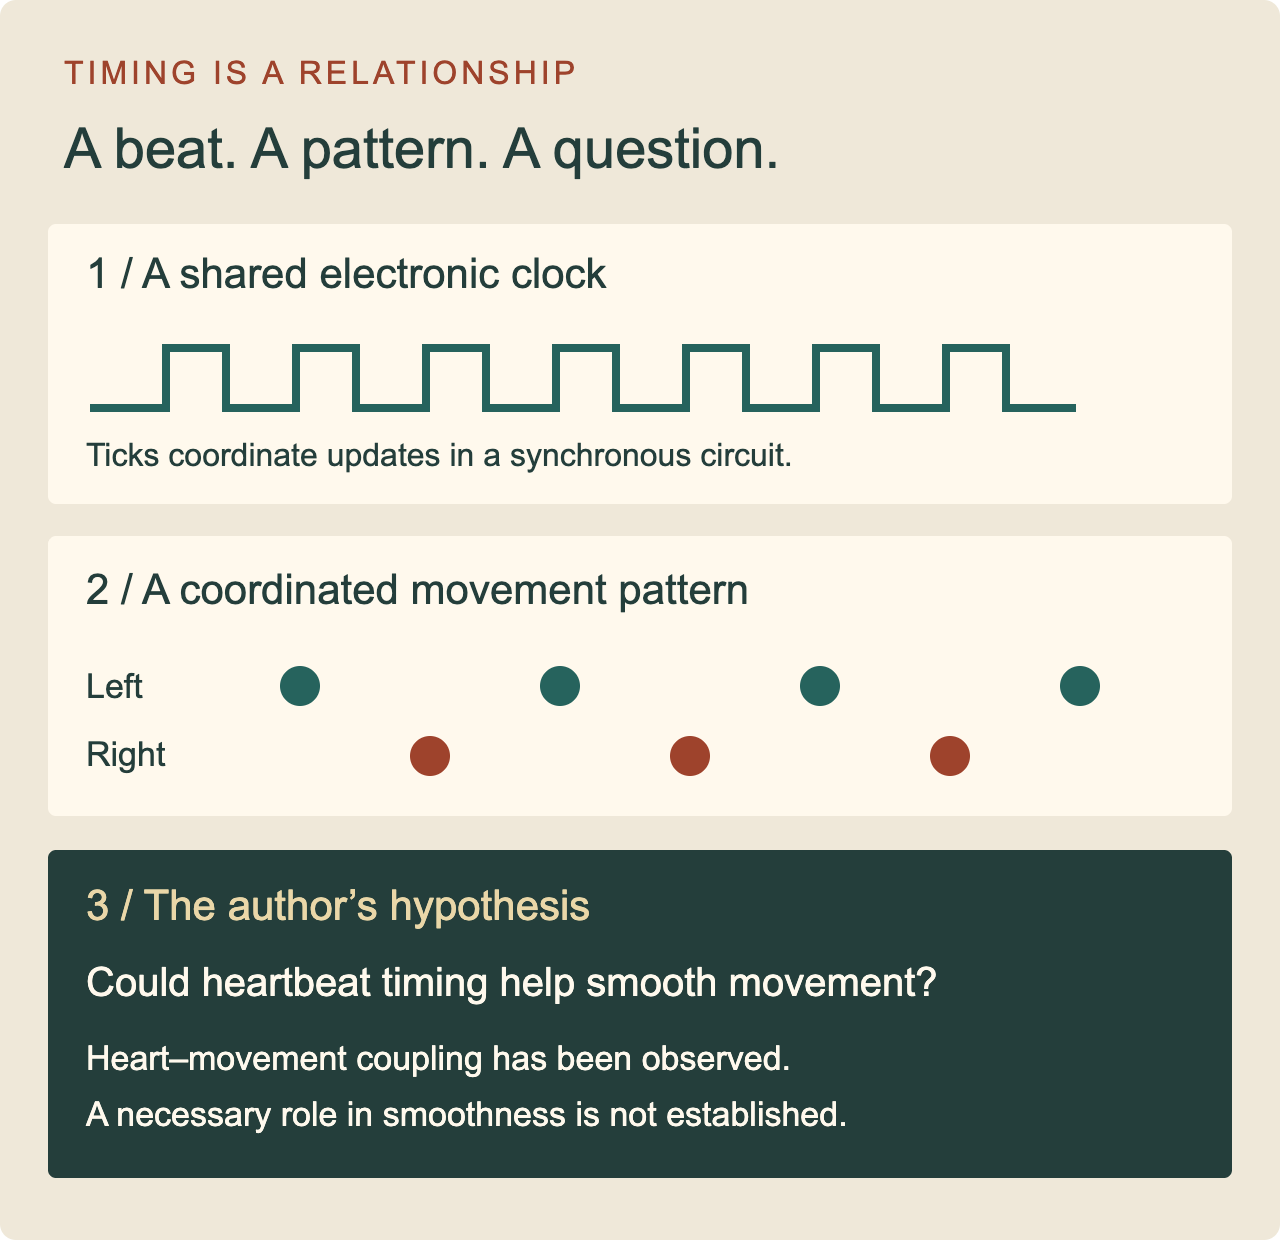
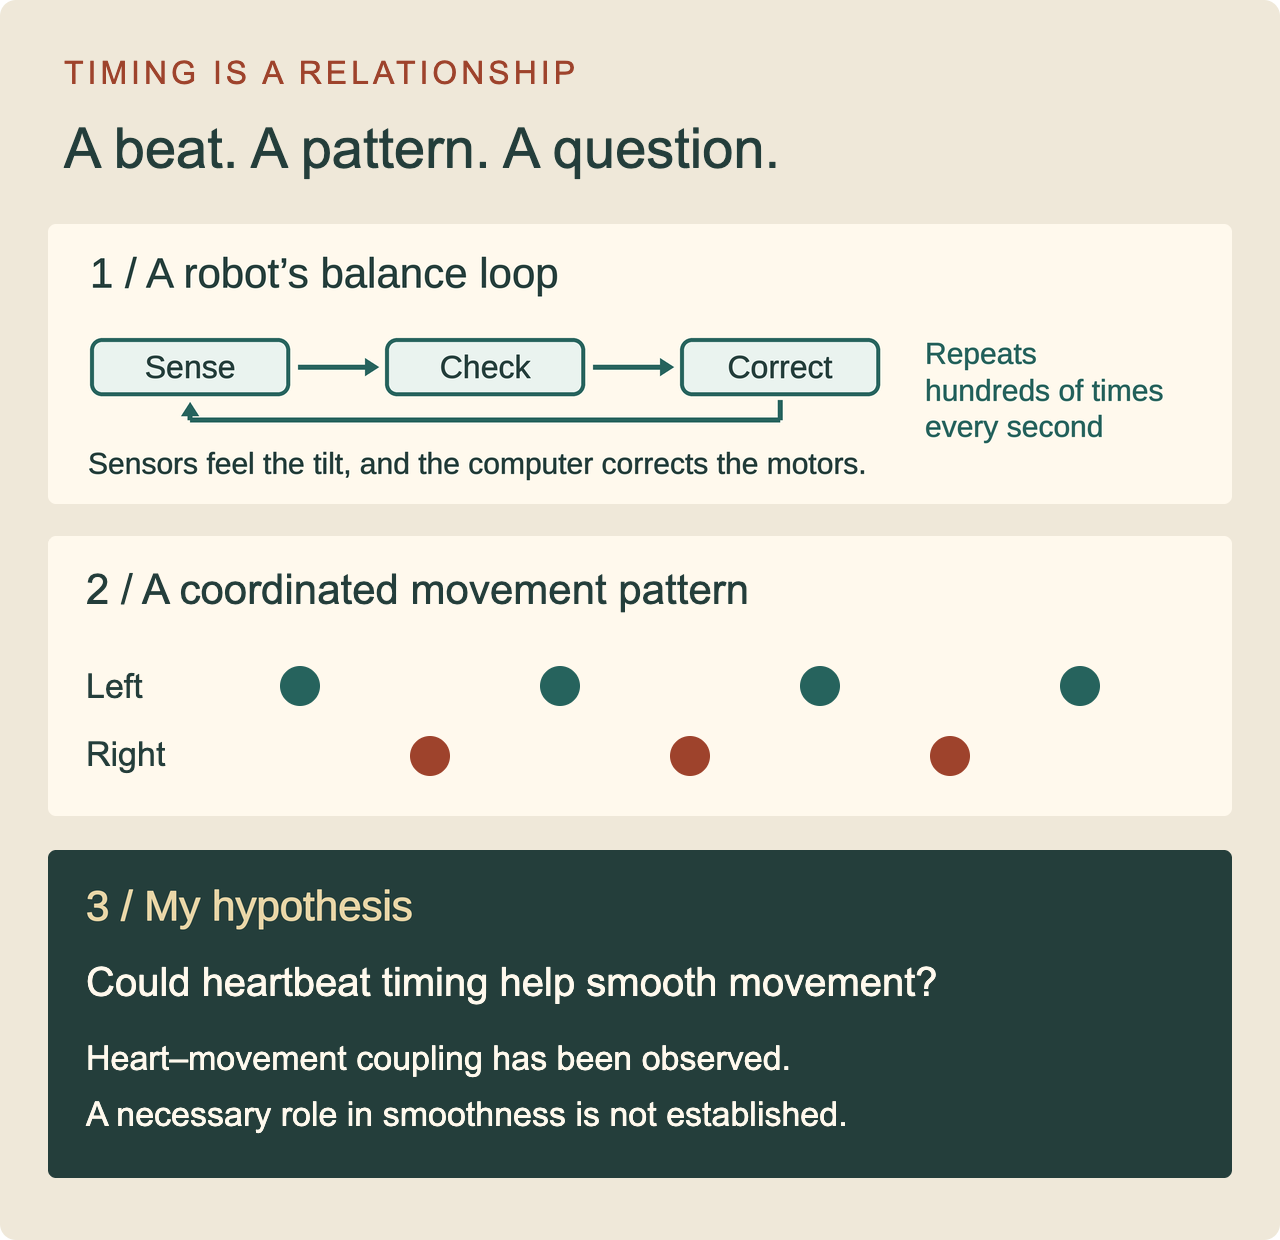
The Walking Doll: correct how robots balance; one big question
- Robots balance with sensors and a feedback loop that corrects posture
  hundreds of times a second, not with the chip's clock. Fix the text,
  the closing question, and panel 1 of the timing figure.
- Drop the claims that pendulum and spring robots use the doll's secret.
- Call the salamander's rhythm makers oscillators.
- Figure label: "My hypothesis".
- Part 2's heart-rate box becomes a "Did you know?" fact box; the
  wondering moves to the end, linking the doll's heart to a cat's.

Changed region(s): [[0.0625, 0.2145, 0.9062, 0.3984], [0.0938, 0.7048, 0.4688, 0.7661]]

diff --git a/_pensees/the-walking-doll.md b/_pensees/the-walking-doll.md
@@ -86,9 +86,9 @@ Here’s something strange. Hold a newborn baby upright with its feet touching a
 
 Your heart and your steps are still connected, though. When people run, their heartbeat sometimes falls into step with their stride, beating in time with their feet.
 
-> **The big question**
+> **Did you know?**
 >
-> Here is something that always puzzled me. Small, quick animals like mice and hummingbirds have hearts that race: a mouse’s heart beats about 500 times a minute, while an elephant’s beats about 30. Scientists explain that this is mostly about size: small bodies use up energy faster, so their hearts must pump faster. But I still wonder whether a fast inner rhythm helps a quick animal stay in control of its moves.
+> Small, quick animals have hearts that race. A mouse’s heart beats about 500 times a minute and a cat’s about 150, while an elephant’s beats only about 30. Scientists explain that this is mostly about size: small bodies use up energy faster, so their hearts must pump faster.
 
 ### The robot that learned to walk like us
 
@@ -120,13 +120,13 @@ In the 1980s, a scientist named Marc Raibert built a robot with just one leg. It
 
 Some scientists asked a strange question: how much of walking can a robot do with no computer at all? They built legs with knees and hips, set them at the top of a gentle slope, and gave them a little push. The legs walked all the way down, step after step, with no motor and no brain.
 
-**The trick:** a swinging leg is a pendulum, just like the one in a grandfather clock. If the legs have the right length and weight, gravity swings them at just the right rhythm. Robots built on this idea use very little energy, because the body’s own swing does most of the work. Sound familiar? It is the walking doll’s secret, all grown up.
+**The trick:** a swinging leg is a pendulum, just like the one in a grandfather clock. If the legs have the right length and weight, gravity swings them at just the right rhythm. Robots built on this idea use very little energy, because the body’s own swing does most of the work.
 
 ### The robot with a rhythm in its spine (2007)
 
 In Switzerland, Auke Ijspeert and his team built a robot salamander that could swim in water and then crawl out onto land.
 
-**The trick:** instead of planning every movement, they gave the robot an electronic copy of the central pattern generator from Part 2: a chain of tiny electronic clocks that tick together and pass their rhythm down the body. Turning up one signal changed the rhythm from crawling to swimming.
+**The trick:** instead of planning every movement, they gave the robot an electronic copy of the central pattern generator from Part 2: a chain of electronic rhythm makers, called oscillators, that keep time together and pass their rhythm down the body. Turning up one signal changed the rhythm from crawling to swimming.
 
 ### Learning by falling, millions of times (2010s to today)
 
@@ -152,15 +152,15 @@ Why give robots legs, when wheels are so much simpler? Because our world is buil
 
 Today, building robots is my hobby. I build my own little walking machines with LEGO, and every time one of them wobbles and falls, I think about my sister’s doll.
 
-Modern robots keep their balance with fast computers and electronic clocks that tick billions of times a second. That works amazingly well. But the doll taught me something I never forgot: her whole body moved in time with one heavy, swinging heart. And the smoothest walking machines scientists have built, the ones that swing their legs like pendulums and bounce on springs, use the same kind of physical rhythm.
+Modern robots keep their balance with sensors and fast computers. Their sensors feel which way the body is tilting and how hard each foot presses on the ground, and the computer checks their posture and corrects it hundreds of times every second. That works amazingly well. But the doll taught me something I never forgot: her whole body moved in time with one heavy, swinging heart. And I often think about cats. A cat’s heart beats about twice as fast as yours, and a cat is one of the quickest, smoothest movers on Earth. Scientists say a fast heartbeat is mostly about body size. But I can’t help wondering whether a fast inner rhythm also helps a quick animal stay in control of its moves.
 
-![Three panels: a square-wave electronic clock signal that ticks to coordinate a computer chip; a left-right stepping pattern; and the author's hypothesis, asking whether heartbeat timing could help smooth movement, noting that heart-movement coupling has been observed but a necessary role in smoothness is not established.](/images/pensees/walking-doll/rhythm-question.png)
+![Three panels: a robot's balance loop, where sensors feel the tilt, the computer checks, and the motors correct, repeating hundreds of times every second; a left-right stepping pattern; and my hypothesis, asking whether heartbeat timing could help smooth movement, noting that heart-movement coupling has been observed but a necessary role in smoothness is not established.](/images/pensees/walking-doll/rhythm-question.png)
 
-*Timing is a relationship: a clock, a pattern, and a question.*
+*Timing is a relationship: a balance loop, a pattern, and a question.*
 
 > **The big question**
 >
-> So here is the question I still wonder about. Is an electronic clock enough to make a robot move as smoothly as a cat or a dancer? Or will the walking machines of the future need something like a mechanical heartbeat, a real swinging rhythm at their center, that the whole body can move in time with?
+> So here is the question I still wonder about. Are sensors and quick corrections enough to make a robot move as smoothly as a cat or a dancer? Or will the walking machines of the future need something like a mechanical heartbeat, a real swinging rhythm at their center, that the whole body can move in time with?
 
 I don’t know the answer. Nobody does yet. Maybe you will be the one to find out.
 
